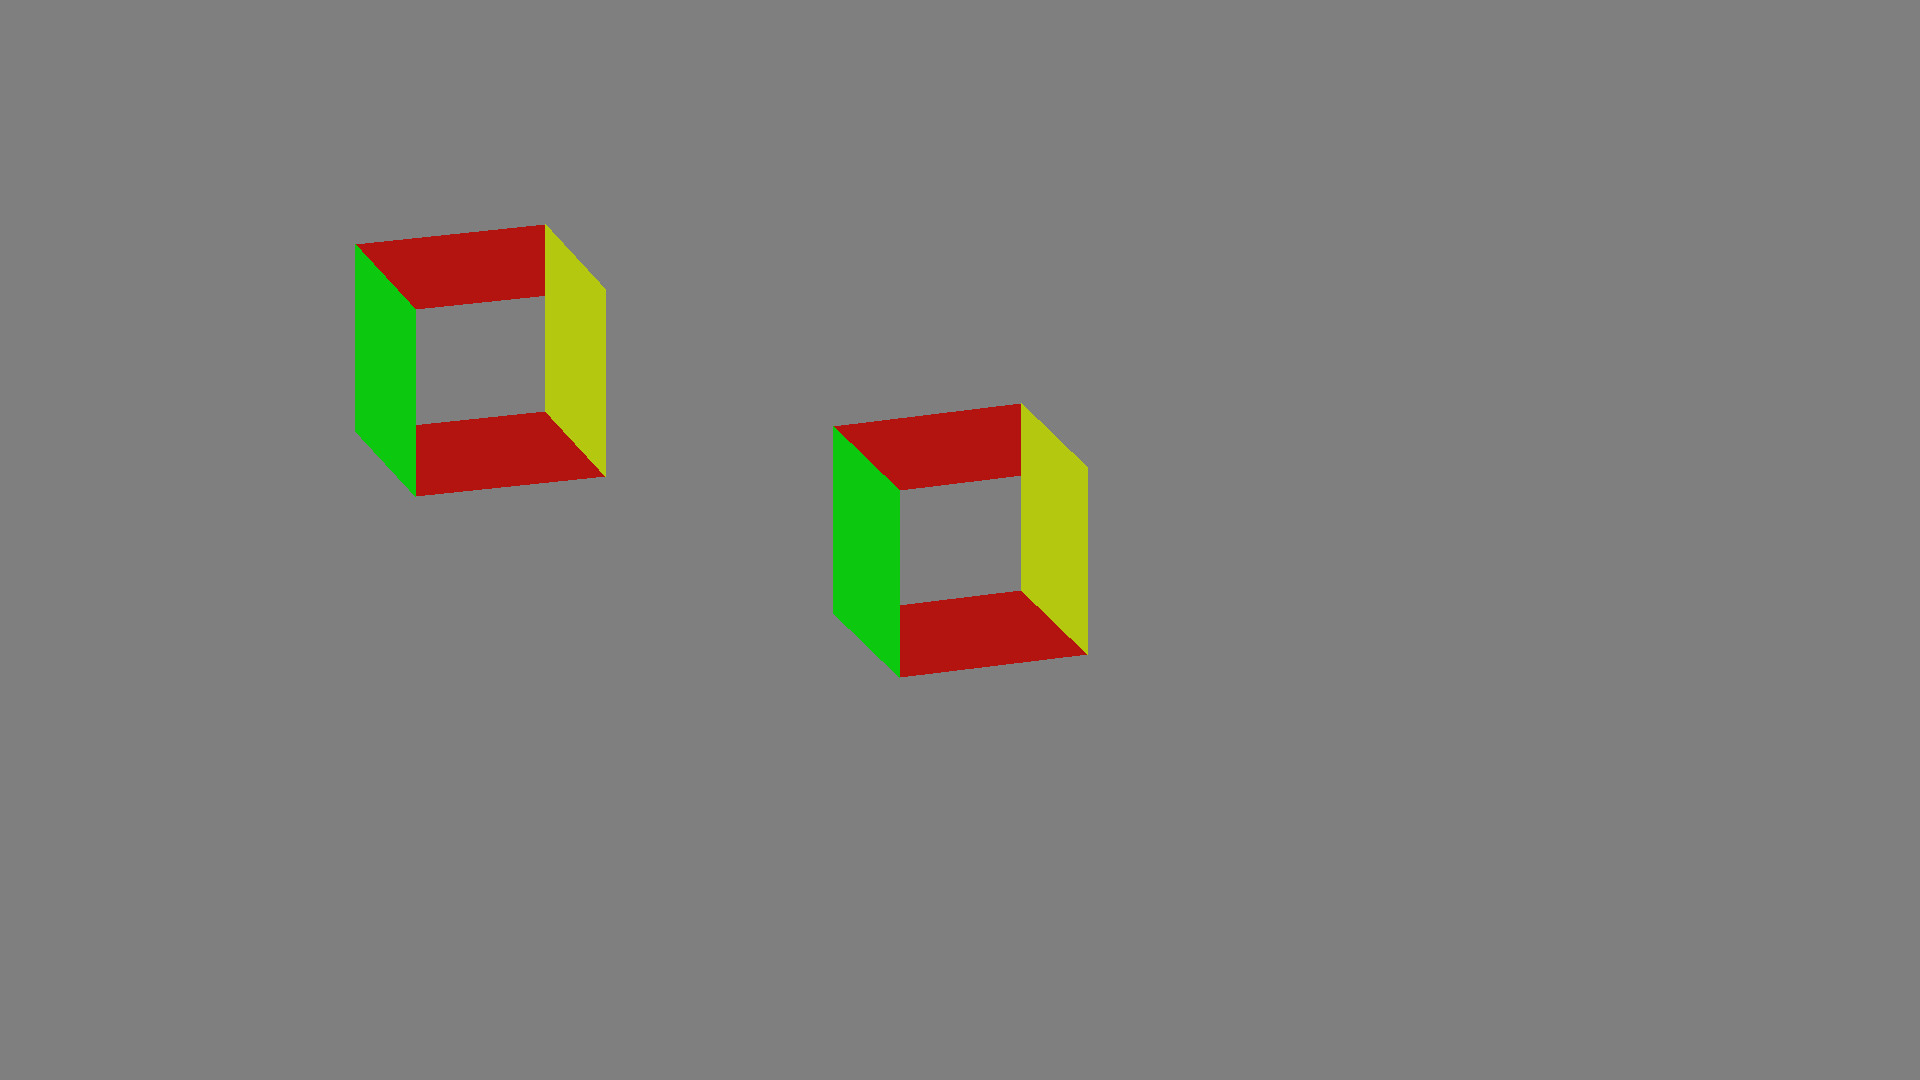
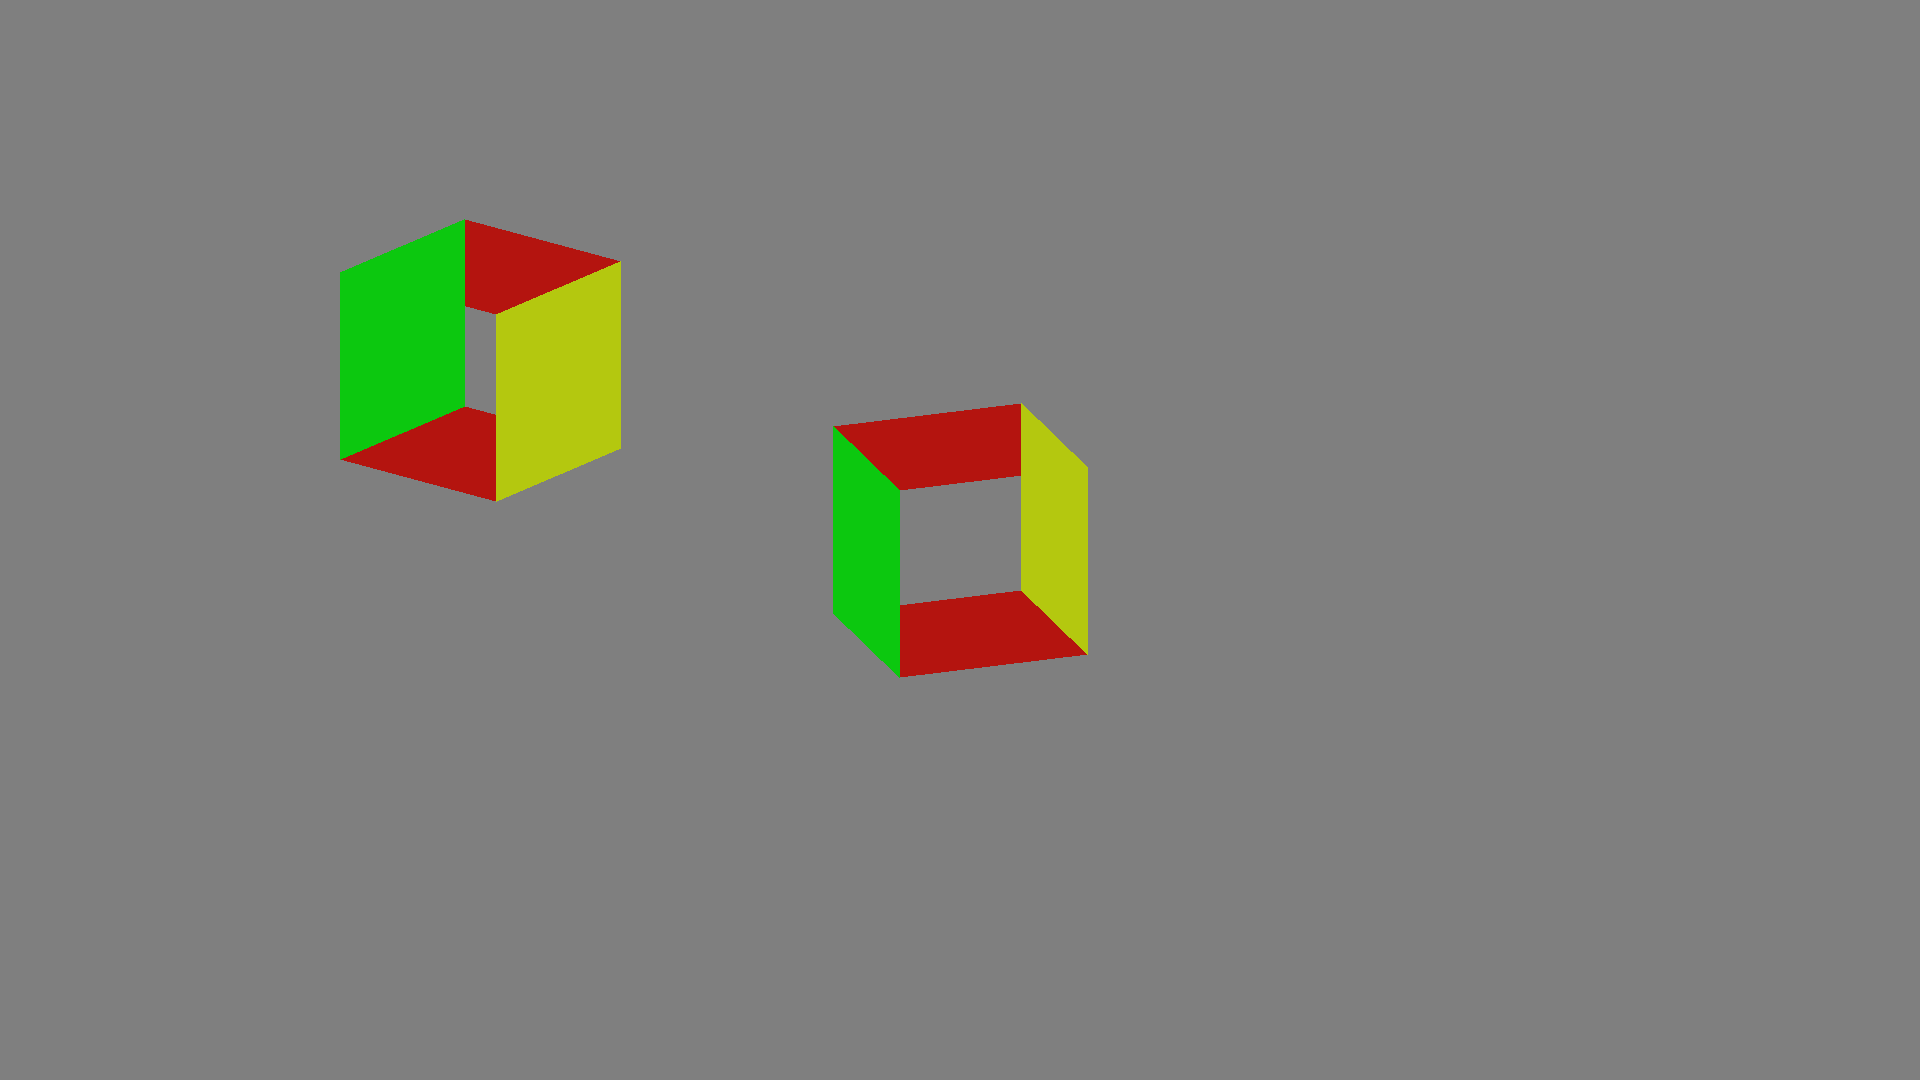
reorganized cubeFaces file

Changed region(s): [[0.1562, 0.1833, 0.3438, 0.4583]]

diff --git a/cubeFaces.py b/cubeFaces.py
@@ -1,79 +1,103 @@
-# import numpy as np
-# from PIL import Image, ImageDraw
-
-# # Define the four points of the quadrilateral
-# points = np.array([[50, 50], [200, 50], [150, 200], [100, 150]])
-
-# # Create a blank image
-# width, height = 300, 300
-# image = Image.new("RGB", (width, height), "white")
-# draw = ImageDraw.Draw(image)
-
-# # Draw the quadrilateral using the defined points
-# draw.polygon(tuple(map(tuple, points)), fill="red")
-
-# # Display or save the image
-# image.show()
-# # image.save("quadrilateral.png")
-
 import numpy as np
 from math import *
 from PIL import Image, ImageDraw
+from collections import namedtuple
 
-def draw_point(image, center, radius, color = [0.1, 0.1, 0.1]):
-    color = np.array(color) * 255
-    Y, X = np.ogrid[:h, :w]
-    dist_from_center = np.sqrt((X - center[0])**2 + (Y - center[1])**2)
-    # calc where to color the circle
-    circle_mask = dist_from_center <= radius
-    image[circle_mask] = color
-    return image
+# ====================MACROS====================
+IMAGE_HEIGHT = 1080
+IMAGE_WIDTH = 1920
+XYZ_VALUES = namedtuple("XYZ_VALUES", ["x", "y", "z"])
 
-# draw line from two given points in the matrix, i and j
-def connect_points(image, i, j, points):
-    # print(f"i: {i}, j:{j}")
-    color = [0, 0, 0]  # Black color
-    if i == 0 and j == 1:
-        # print("HELLO")
-        color = [1.,1,0]
-    x1, y1 = points[i][0], points[i][1]
-    x2, y2 = points[j][0], points[j][1]
-    dx = abs(x2 - x1)
-    dy = abs(y2 - y1)
-    sx = 1 if x1 < x2 else -1
-    sy = 1 if y1 < y2 else -1
+# ====================GIVEN DATA====================
+CAMERA_POS   = XYZ_VALUES(0.736, -0.585, 0.338)
+LIGHT_SOURCE = XYZ_VALUES(0.563, 0.139, 0.815)
+CUBE1_POS    = XYZ_VALUES(1.58, 0.08, 0.5)
+CUBE2_POS    = XYZ_VALUES(0.58, -1.2, 0.5)
+CUBE3_POS    = XYZ_VALUES(-0.75, 0.43, 0.5)
+CUBE4_POS    = XYZ_VALUES(0.67, 1.15, 0.5)
 
-    # Initialize the error variable
-    error = dx - dy
+CUBE1_ROT    = XYZ_VALUES(0, 0, np.deg2rad(-57.7))
+CUBE2_ROT    = XYZ_VALUES(0, 0, np.deg2rad(-55.9))
+CUBE3_ROT    = XYZ_VALUES(0, 0, np.deg2rad(-56.5))
+CUBE4_ROT    = XYZ_VALUES(0, 0, 0)
 
-    while x1 != x2 or y1 != y2:
-        # Draw the current point
-        image[int(y1), int(x1)] = color
+# ====================MATRICES CONSTANTS====================
+projection_matrix = np.array([
+    [1, 0, 0],
+    [0, 1, 0]
+    # [0, 0, 0] # not necessary
+])
 
-        # Calculate the next point
-        error2 = 2 * error
-        if error2 > -dy:
-            error -= dy
-            x1 += sx
-        if error2 < dx:
-            error += dx
-            y1 += sy
-    
-    return image
+# camera()
+camera_xyz = np.array([
+    [0.621, 0.782, 0], #X'
+    [-0.265, 0.211, 0.941], #Y'
+    [0.736, -0.585, 0.338], #Z'
+])
 
-# create the full image with the background and size
-def create_image(h, w):
-    # === bg
+# === cube points
+# TODO: calculate the points by the given cube center
+points = np.array([
+    [-1, -1, 1],
+    [1, -1, 1],
+    [1, 1, 1],
+    [-1, 1, 1],
+    [-1, -1, -1],
+    [1, -1, -1],
+    [1, 1, -1],
+    [-1, 1, -1]
+])
+
+projected_points = [
+    [n, n] for n in range(len(points))
+]
+
+# ====================CALCULATION MATRICES====================
+# functions to get the roation matrix by given angle for each axis
+
+def get_rotation_mat_x(angle):
+    return np.array([
+        [1, 0, 0],
+        [0, np.cos(angle), -np.sin(angle)],
+        [0, np.sin(angle), np.cos(angle)],
+    ])
+
+def get_rotation_mat_y(angle):
+    return np.array([
+        [np.cos(angle), 0, np.sin(angle)],
+        [0, 1, 0],
+        [-np.sin(angle), 0, np.cos(angle)],
+    ])
+
+def get_rotation_mat_z(angle):
+    return np.array([
+        [np.cos(angle), -np.sin(angle), 0],
+        [np.sin(angle), np.cos(angle), 0],
+        [0, 0, 1],
+    ])
+
+# ====================TEMP CALCULATIONS==================== will most likely be removed
+scale = 100
+center_pos1 = [IMAGE_WIDTH/2, IMAGE_HEIGHT/2]
+center_pos2 = [IMAGE_WIDTH/4, IMAGE_HEIGHT/3]
+
+def create_image(height, width):
+    '''
+    Receives height and width of image
+    Returns image with background colour represented as a 2D matrix
+    '''
     bg_color = np.array([0.5, 0.5, 0.5]) * 255 # PIL need 0-255 values and not 0-1 rgb values
-    image = np.zeros((h, w, 3), dtype=np.uint8)
-    image[0:h, 0:w] = bg_color
+    image = np.zeros((height, width, 3), dtype=np.uint8)
+    image[0:height, 0:width] = bg_color
     return image
-    pass
 
 # some of the variables here can be global constants (I think) - depending on whether we need them or not
 # for example : projection_matrix, rotation_z/y/z, scale, projected_points,
 # points (?) also depending on how we calculate it
-def create_cube(image, circle_pos, angleX, angleY, angleZ, image_pil): 
+def create_cube(center_pos, angleX, angleY, angleZ, image_pil): 
+    '''
+    Main function to create cubes in 2D image given 3D position and rotation
+    '''
     rotation_x = get_rotation_mat_x(angleX)
     rotation_y = get_rotation_mat_y(angleY)
     rotation_z = get_rotation_mat_z(angleZ)
@@ -90,24 +114,12 @@ def create_cube(image, circle_pos, angleX, angleY, angleZ, image_pil):
         # convert from 3d point to 2d point
         projected2d = np.dot(projection_matrix, rotated2d)
         # scale the x and y coordinates
-        x = int(projected2d.flat[0] * scale) + circle_pos[0]
-        y = int(projected2d.flat[1] * scale) + circle_pos[1]
+        x = int(projected2d.flat[0] * scale) + center_pos[0]
+        y = int(projected2d.flat[1] * scale) + center_pos[1]
 
         projected_points[i] = [x, y]
 
-        # delete later
-        if i == 0: color = [1,0,0]
-        elif i == 1: color = [0,0,1] 
-        elif i == 2: color = [1,1,0] 
-        else: color = [0,0,0]
-
-        image = draw_point(image, np.array([x, y]), 5, color)
         i += 1
-
-    for p in range(4):
-        connect_points(image, p, (p+1) % 4, projected_points)
-        connect_points(image, p+4, ((p+1) % 4) + 4, projected_points)
-        connect_points(image, p, (p+4), projected_points)
 
     # NOGA: fill the area of 4 points, also added to the function "image_pil" argument
     # # Fill the quadrilateral area with a specific color
@@ -131,106 +143,20 @@ def create_cube(image, circle_pos, angleX, angleY, angleZ, image_pil):
     draw = ImageDraw.Draw(image_pil)
     draw.polygon(quadrilateral_points, fill=(180, 200, 15))  # Fill with red color
 
-    return image
 
-# === Some matrices for calculation:
-# also functions to get the roation matrix by given angle for each axis
-def get_rotation_mat_x(angle):
-    return np.matrix([
-        [1, 0, 0],
-        [0, cos(angle), -sin(angle)],
-        [0, sin(angle), cos(angle)],
-    ])
+if __name__ == "__main__":
+    # creating size + background
+    image = create_image(IMAGE_HEIGHT, IMAGE_WIDTH)
 
-def get_rotation_mat_y(angle):
-    return np.matrix([
-        [cos(angle), 0, sin(angle)],
-        [0, 1, 0],
-        [-sin(angle), 0, cos(angle)],
-    ])
+    image_pil = Image.fromarray(image, 'RGB')
 
-def get_rotation_mat_z(angle):
-    return np.matrix([
-        [cos(angle), -sin(angle), 0],
-        [sin(angle), cos(angle), 0],
-        [0, 0, 1],
-    ])
+    #TODO convert 3D cube centers to 2D cube centers
 
-# like constant maybe
-projection_matrix = np.matrix([
-    [1, 0, 0],
-    [0, 1, 0]
-    # [0, 0, 0] # not necessary
-])
+    # cube1
+    create_cube(center_pos1, 0, 0, CUBE1_ROT.z, image_pil)
+    # cube2
+    create_cube(center_pos2, 0, 0, CUBE4_ROT.z, image_pil)
 
-# def camera():
-#     # the z' perpendicular to y' and x' to z and y'
-#     camera_z = [0.736, -0.585, 0.338]
-#     camera_y = [-0.736, 0.585]
-#     c = (camera_z[0] * camera_y[0] + camera_z[1] * camera_y[1]) / (-0.338)
-#     camera_y.append(c)
-#     magnitude = np.linalg.norm(camera_y)
-#     # Normalize the vector
-#     normalized_vector = camera_y / magnitude
-#     print(normalized_vector ,camera_z)
-
-
-# camera()
-camera_xyz = np.matrix([
-    [0.621, 0.782, 0], #X'
-    [-0.265, 0.211, 0.941], #Y'
-    [0.736, -0.585, 0.338], #Z'
-])
-
-# === cube points
-# TODO: calculate the points by the given cube center
-points = np.array([
-    [-1, -1, 1],
-    [1, -1, 1],
-    [1, 1, 1],
-    [-1, 1, 1],
-    [-1, -1, -1],
-    [1, -1, -1],
-    [1, 1, -1],
-    [-1, 1, -1]
-])
-
-projected_points = [
-    [n, n] for n in range(len(points))
-]
-
-# === Some sizes for calculation:
-h, w = 1080, 1920 # like constant maybe
-scale = 100  # like constant maybe
-circle_pos1 = [w/2, h/2]
-circle_pos2 = [w/4, h/3]
-# normal = np.matrix([0, 0, 1])
-# camera = np.matrix([0.736, -0.585, 0.338]).reshape(3,1)
-# n_c_mul = np.dot(normal, camera)
-# angle = np.arccos(n_c_mul.flat[0])
-angle = pi/4 # 36°
-angleX = angle #np.deg2rad(-20)
-angleY = angle #np.deg2rad(-57.7)
-angleZ = angle #np.deg2rad(0) 
-
-# size + bg
-image = create_image(1080, 1920)
-
-image_pil = Image.fromarray(image, 'RGB')
-
-# cube1
-image = create_cube(image, circle_pos1, 0, 0, np.deg2rad(-57.7), image_pil)
-# cube2
-image = create_cube(image, circle_pos2, 0, 0, np.deg2rad(-55.9), image_pil) # OK, cool, 
-
-# display + save as png image
-# img = Image.fromarray(image, 'RGB')
-# # img.save('my.png')
-# img.show()
-
-image_pil.save('image2.png')
-image_pil.show()
-
-
-
+    image_pil.save('image2.png')
+    image_pil.show()
 

diff --git a/targil.py b/targil.py
@@ -185,3 +185,54 @@ image = create_cube(image, circle_pos2, 0, 0, np.deg2rad(-55.9)) # OK, cool,
 img = Image.fromarray(image, 'RGB')
 img.save('my.png')
 img.show()
+
+
+#================================================================== from cubeFaces.py
+
+def draw_point(image, center, radius, color = [0.1, 0.1, 0.1]):
+    '''
+    Temporary function for development
+    Draws a point in an image represented by a 2D matrix with a given color
+    '''
+    color = np.array(color) * 255
+    Y, X = np.ogrid[:IMAGE_HEIGHT, :IMAGE_WIDTH]
+    dist_from_center = np.sqrt((X - center[0])**2 + (Y - center[1])**2)
+    # calc where to color the circle
+    circle_mask = dist_from_center <= radius
+    image[circle_mask] = color
+    return image
+
+def connect_points(image, i, j, points):
+    '''
+    Temporary function for development
+    Draws a line in an image represented by a 2D matrix connecting two given points
+    '''
+    # print(f"i: {i}, j:{j}")
+    color = [0, 0, 0]  # Black color
+    if i == 0 and j == 1:
+        # print("HELLO")
+        color = [1.,1,0]
+    x1, y1 = points[i][0], points[i][1]
+    x2, y2 = points[j][0], points[j][1]
+    dx = abs(x2 - x1)
+    dy = abs(y2 - y1)
+    sx = 1 if x1 < x2 else -1
+    sy = 1 if y1 < y2 else -1
+
+    # Initialize the error variable
+    error = dx - dy
+
+    while x1 != x2 or y1 != y2:
+        # Draw the current point
+        image[int(y1), int(x1)] = color
+
+        # Calculate the next point
+        error2 = 2 * error
+        if error2 > -dy:
+            error -= dy
+            x1 += sx
+        if error2 < dx:
+            error += dx
+            y1 += sy
+    
+    return image
